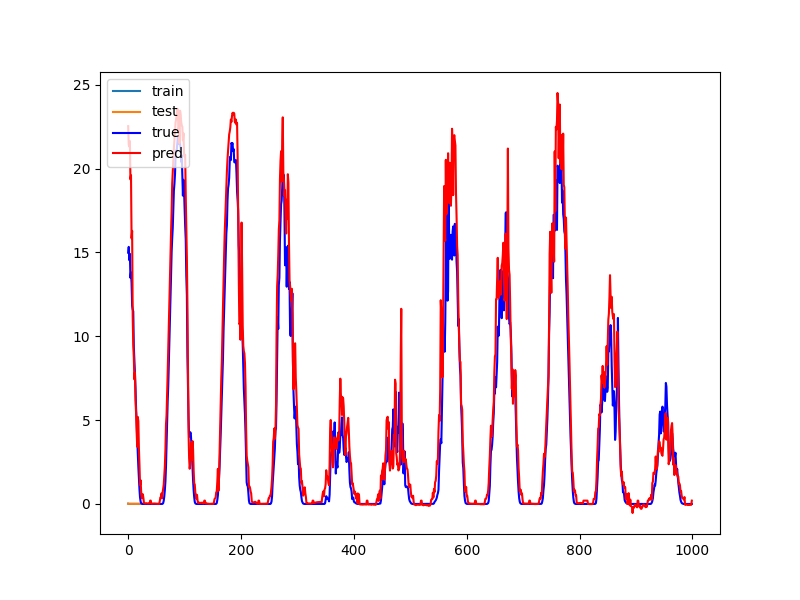
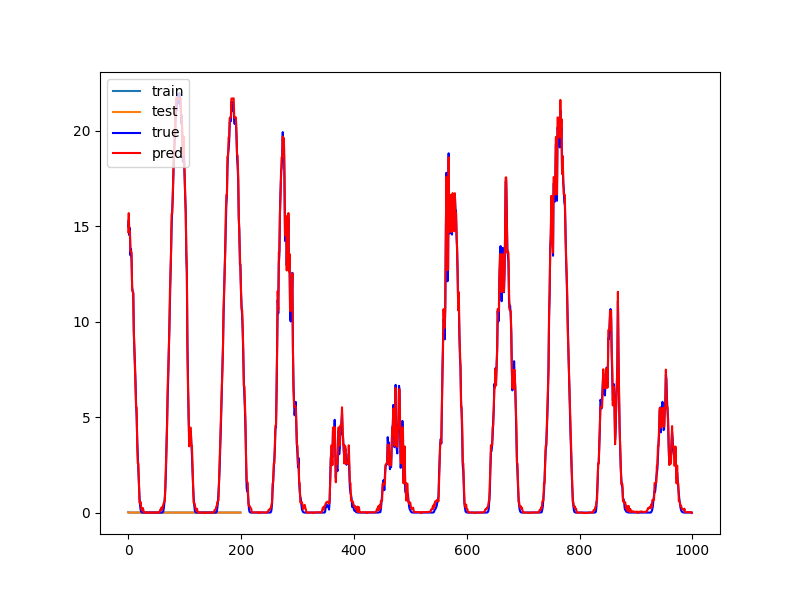
hahahahahahha

diff --git a/learning/LSTMv2.py b/learning/LSTMv2.py
@@ -32,9 +32,9 @@ tf.random.set_seed(10)
 df = pd.read_csv("../data/datefrom1st.csv")
 df.index = df.datetime
 df = df.drop(
-    ["temperature", "difference", "Unnamed: 0", 'datetime', 'percipitation', 'air_pressure', 'sea_level_pressure',
+    ["temperature", "Unnamed: 0", 'datetime', 'percipitation', 'air_pressure', 'sea_level_pressure',
      'wind_degree'], axis=1)
-
+df["difference"] = df.astype('int32')
 
 #%%
 df.corr()
@@ -146,7 +146,7 @@ multi_step_model = multi_gpu_model(multi_step_model, gpus=8)
 
 multi_step_model.compile(optimizer=tf.keras.optimizers.Adam(), loss='mse')
 
-history = multi_step_model.fit(train_X, train_y, epochs=EPOCH, batch_size=32*4, validation_data=(test_X, test_y), verbose=2, shuffle=False)
+history = multi_step_model.fit(train_X, train_y, epochs=EPOCH, batch_size=32*8, validation_data=(test_X, test_y), verbose=2, shuffle=False)
 # plot history
 pyplot.plot(history.history['loss'], label='train')
 pyplot.plot(history.history['val_loss'], label='test')
